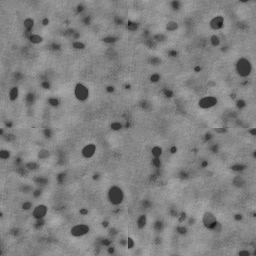
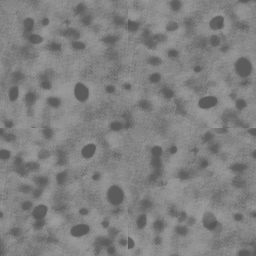
Her skin: no speckle over her breasts; her paint no longer smeared at the close-up
- The speckle over her breasts (the owner's note): 93f66173 laid the face-grain tile
  at 3x over her whole body, its darkest texels darkening her skin by about a quarter
  every 2.8 cm, and the graft's freckles reached her upper chest. The grain is now
  only up her neck (the freckle maps' blue, carried past the UV islands so no seam),
  its outliers eased (heroine_grain.py); no freckles on the front of her chest from
  her collarbones down (heroine_freckles.py). Her face's freckles are unchanged. Her
  bust at the Look: 0.26 specks per 1000 px to 0.06, the floor
  (docs/team/face_sheets/v12_breast_speckle.jpg, before and after at 1:1).
- Her skin's scattering 0.38 to 0.1 (People.HerScatter, hers only): Godot's
  screen-space SSS spreads the lit colour with her paint in it, and at the Look it
  smeared brows, freckles and pores. Grain at the Look 0.62 / 0.79 / 0.91 of her
  portrait's to 0.74 / 0.92 / 0.99.
- Mipmaps on the textures loaded from code (the presets' head paints, freckles,
  grain, AO, scalp shadows): detect-3D never saw them.
- Dev switches for pictures: --zoom (the Look's framing), --lids, --tonemap, --grade off.

No mesh, vertex-colour or tuck change: no refit.

diff --git a/tools/assets/heroine_freckles.py b/tools/assets/heroine_freckles.py
@@ -9,13 +9,15 @@ paint is finer or coarser: a redhead's, as her portrait has them (her_23),
 densest in a band over her nose and across her cheeks, lighter on her
 forehead, chin and ears, a few on her neck, and a sun-dusting over her
 shoulders and upper chest, thinning to none before her body's own paint
-begins. Each is soft-edged and uneven (two overlapping spots), 0.6 to 3 mm
+begins, and none over her breasts. Each is soft-edged and uneven (two overlapping spots), 0.6 to 3 mm
 across, of its own depth, and has a rank: at an amount a, those ranked under
 a show, so a light dusting is the same freckles as a heavy one, fewer.
 
 Written to <out>: heroine_freckles.png (her head's UVs, 2048) and
 heroine_freckles_graft.png (the graft's: her neck, shoulders and upper chest,
-1024): red each texel's freckle (its depth, soft at its edge), green its rank.
+1024): red each texel's freckle (its depth, soft at its edge), green its rank,
+blue how much of her face's grain her skin takes there (all of her head and
+neck, none from her collarbones down).
 Run again when her head is rebuilt (heroine_head.py).
 """
 import os
@@ -164,7 +166,9 @@ nC = FN[tri][cKDTree(P).query(C)[1]] if len(C) else np.zeros((0, 3))
 spots = freckles(C, nC)
 print("FRECKLES face: %d (in her band over nose and cheeks %d)" % (len(C), int((np.exp(-(((C - mid)[:, 0] / 0.052) ** 2)
       - ((((C - mid)[:, 2] + 0.024) / 0.02) ** 2)) > 0.5).sum())))
-save(draw(P, spots, SIZE, rows, cols), os.path.join(OUT, "heroine_freckles.png"))
+img = draw(P, spots, SIZE, rows, cols)
+img[..., 2] = 1                       # (blue: her face's grain on all of her head, her face aside: the skin shader's)
+save(img, os.path.join(OUT, "heroine_freckles.png"))
 
 # ---------------------------------------------- her neck, shoulders, chest --
 her = bpy.data.objects["Heroine"]
@@ -180,9 +184,33 @@ fade = smooth((off - 0.01) / 0.03)
 # sun on her shoulders' tops and her upper chest and back, a few on her neck
 sun = smooth((N[:, 2] + 0.1) / 0.6) * 0.6 + smooth((-N[:, 1] - 0.2) / 0.5) * 0.4
 neck = P[:, 2] > mid[2] - 0.17
-dens = np.where(neck, 0.05e5, 0.4e5 * sun) * fade
+# None over her breasts: a sun-dusting thins down her chest, and breasts, clothed most days, are pale; laid over
+# them, the freckles read as a speckle (the owner, 6 October: "we want smooth skin aside from pores / freckles",
+# "the breasts must look magnificent"). In front, none from her collarbones down (13 to 18 cm over her nipples'
+# height, from her body's foremost points: on her upper chest, at the Look's close-up, they too read as specks over
+# her breasts); her shoulders, back and neck keep theirs.
+BV = np.array([v.co[:] for v in her.data.vertices]) @ np.array(her.matrix_world)[:3, :3].T + np.array(her.matrix_world)[:3, 3]
+nips = []
+for sd in (1, -1):
+    m = (BV[:, 0] * sd > 0.04) & (BV[:, 0] * sd < 0.16) & (BV[:, 2] > 1.34) & (BV[:, 2] < 1.50)
+    nips.append(BV[m][np.argmin(BV[m][:, 1])])
+nip_z = float(np.mean([q[2] for q in nips]))
+front = smooth((-P[:, 1] - 0.02) / 0.04) * (1 - smooth((np.abs(P[:, 0]) - 0.17) / 0.04))
+breasts = front * (1 - smooth((P[:, 2] - (nip_z + 0.13)) / 0.05))
+dens = np.where(neck, 0.05e5, 0.4e5 * sun) * fade * (1 - breasts)
 C = sow(P, tri, area, dens)
 nC = GFN[tri][cKDTree(P).query(C)[1]] if len(C) else np.zeros((0, 3))
 spots = freckles(C, nC)
-print("FRECKLES shoulders and chest: %d" % len(C))
-save(draw(P, spots, GSIZE, rows, cols), os.path.join(OUT, "heroine_freckles_graft.png"))
+print("FRECKLES shoulders and chest: %d (none over her breasts: nipples at %.3f m)" % (len(C), nip_z))
+img = draw(P, spots, GSIZE, rows, cols)
+# Blue: how much of her face's grain (heroine_grain.png, the skin shader's grain_amount) her skin takes here: all of
+# it up her neck, to her face's paint, none from her collarbones down. (Laid over her whole body it was the speckle
+# over her breasts: her neck's grain is her face's, her body is smooth but for its pores and freckles.)
+img[rows, cols, 2] = smooth((P[:, 2] - 1.47) / 0.08)
+# (carried past the islands' edges, so a mipmap never draws a seam of less grain along them)
+from scipy import ndimage  # noqa: E402
+known = np.zeros(img.shape[:2], bool)
+known[rows, cols] = True
+_, (iy, ix) = ndimage.distance_transform_edt(~known, return_indices=True)
+img[..., 2] = img[..., 2][iy, ix]
+save(img, os.path.join(OUT, "heroine_freckles_graft.png"))

diff --git a/godot/src/Actors/People.cs b/godot/src/Actors/People.cs
@@ -915,12 +915,7 @@ public static class People
         if (who == "heroine")
         {
             m.SetShaderParameter("face_tone", FaceTone(look));
-            // (her face's own fine grain on her neck and body: tools/assets/heroine_grain.py)
-            if (ResourceLoader.Exists("res://art/people/head_tex/heroine_grain.png"))
-            {
-                m.SetShaderParameter("grain", GD.Load<Texture2D>("res://art/people/head_tex/heroine_grain.png"));
-                m.SetShaderParameter("grain_amount", HerGrain);
-            }
+            m.SetShaderParameter("scatter", HerScatter);
         }
         // A body's relief baked from its sculpt (the hero's), under the pores.
         if (src.NormalTexture != null)
@@ -960,6 +955,13 @@ public static class People
         {
             m.SetShaderParameter("freckles", GD.Load<Texture2D>(fp));
             m.SetShaderParameter("freckle_amount", HerFreckles(look));
+            // (and her face's own fine grain up her neck, where the freckles' map's blue says: none from her
+            // collarbones down; tools/assets/heroine_grain.py)
+            if (ResourceLoader.Exists("res://art/people/head_tex/heroine_grain.png"))
+            {
+                m.SetShaderParameter("grain", GD.Load<Texture2D>("res://art/people/head_tex/heroine_grain.png"));
+                m.SetShaderParameter("grain_amount", HerGrain);
+            }
         }
         // His skin, all of it, rougher than hers: at her sheen his deep
         // relief caught the light as wet plastic.
@@ -971,6 +973,14 @@ public static class People
         }
         return m;
     }
+
+    /// <summary>How far light carried under her skin spreads on screen (the skin shader's `scatter`, Godot's
+    /// screen-space scattering). Godot spreads the lit colour with her paint in it, so at the Look's close-up its
+    /// 0.38 smeared her paint: brows paler than drawn (Doe's darkest third at 0.30 of her skin, her portrait's 0.18),
+    /// freckles and pores gone, her grain at 0.62 / 0.79 / 0.91 of her portrait's (s0.8 / 1.6 / 3.2). At 0.1 it is
+    /// 0.74 / 0.92 / 0.99 and Doe's brows 0.20; the soft edge of her lit side is the shader's own (`terminator`).
+    /// (0.2 smeared as 0.38 did.)</summary>
+    const float HerScatter = 0.1f;
 
     /// <summary>His skin's roughness, sheen, and the roughness it gains seen
     /// edge on (shaders/heroine_skin.gdshader).</summary>
@@ -1009,9 +1019,10 @@ public static class People
         ["wildling"] = new(0.992f, 0.969f, 0.957f), ["hardwon"] = new(1.004f, 1.016f, 1.032f),
     };
 
-    /// <summary>How much of her face's own grain her neck and body take (the skin shader's
-    /// grain_amount; 1 her face's paint's own spread): her portrait's neck has nearly half her
-    /// face's grain, and her neck's relief alone gave it a quarter. (--grain tries another.)</summary>
+    /// <summary>How much of her face's own grain her neck takes (the skin shader's grain_amount; 1 her face's
+    /// paint's own spread; none from her collarbones down, by her freckles' map's blue): her portrait's neck has
+    /// nearly half her face's grain, and her neck's relief alone gave it a quarter. (Over her body too, it was the
+    /// speckle over her breasts.) (--grain tries another.)</summary>
     static readonly float HerGrain = SurvivorUnchained.Args.Has("grain") ? SurvivorUnchained.Args.Num("grain", 3f) : 3f;
 
     static Vector3 FaceTone(Look look) =>

diff --git a/tools/assets/heroine_grain.py b/tools/assets/heroine_grain.py
@@ -48,9 +48,17 @@ for y in range(0, S - T, 32):
             best, at = score, (y, x)
 y, x = at
 g = ratio[y:y + T, x:x + T] - 1
-# (freckles and blemishes, the few marks far past the grain's spread, clipped back into it)
+# (freckles, blemishes and pores' dark cores, the marks past the grain's spread, eased back into it: clipped at
+# 2.5 times the spread, the tile's darkest texels, three times over on her neck, read as dark specks)
 s = g.std()
-g = np.clip(g, -2.5 * s, 2.5 * s)
+K = 1.6 * s
+
+
+def soft(x):
+    return K * np.tanh(x / K)
+
+
+g = soft(g)
 g -= g.mean()
 # Seamless: the tile over itself shifted half its size, each where it is furthest from its own
 # edge, the spread kept where they blend.
@@ -58,7 +66,7 @@ h = np.roll(np.roll(g, T // 2, 0), T // 2, 1)
 e = np.minimum(np.arange(T), T - 1 - np.arange(T)) / (T / 2)
 w = np.minimum(e[:, None], e[None, :])
 w = np.clip(w * 2, 0, 1)
-t = (w * g + (1 - w) * h) / np.sqrt(w * w + (1 - w) * (1 - w))
+t = soft((w * g + (1 - w) * h) / np.sqrt(w * w + (1 - w) * (1 - w)))
 img = np.clip(0.5 + t / STEP * 0.25, 0, 1)
 Image.fromarray((img * 255 + 0.5).astype(np.uint8), 'L').save(OUT)
 print('GRAIN from her face paint at', at, 'spread %.4f (%.1f%%), written' % (s, 100 * s), OUT)

diff --git a/godot/src/Shots.cs b/godot/src/Shots.cs
@@ -105,6 +105,16 @@ public partial class Shots : Node
         // frame: the graphics settings are applied after this wakes).
         if (Args.Has("no-taa")) GetViewport().UseTaa = false;
         if (Args.Get("mipbias") is string mb) GetViewport().TextureMipmapBias = float.Parse(mb, System.Globalization.CultureInfo.InvariantCulture);
+        // --tonemap linear|reinhardt|filmic|aces|agx, --grade off: the picture through
+        // another tone curve, or without the colour grade, to tell what each does to a
+        // face's darks (her brows, lashes, the line of her lips).
+        if (Args.Get("tonemap") is string tm || Args.Get("grade") == "off")
+            foreach (var we in GetTree().Root.FindChildren("*", "WorldEnvironment", true, false))
+                if (((WorldEnvironment)we).Environment is { } env)
+                {
+                    if (Args.Get("tonemap") is string t && System.Enum.TryParse<Godot.Environment.ToneMapper>(t, true, out var mode)) env.TonemapMode = mode;
+                    if (Args.Get("grade") == "off") env.AdjustmentEnabled = false;
+                }
         for (int i = wanted.Count - 1; i >= 0; i--)
         {
             if (time < wanted[i].At) continue;

diff --git a/godot/src/Game/GameFront.cs b/godot/src/Game/GameFront.cs
@@ -312,6 +312,9 @@ public partial class Game
         // --turn DEGREES: the figure turned so far on the turntable (pictures of her from the side).
         if (Args.Get("turn") is string tn && double.TryParse(tn, System.Globalization.NumberStyles.Float, System.Globalization.CultureInfo.InvariantCulture, out var deg))
             Turntable(Mathf.DegToRad((float)deg), 0);
+        // --zoom Z: framed so near (0 all of her, 0.55 head and shoulders, 1 her face), in the portrait's light from
+        // head and shoulders in (pictures of her skin at the bust).
+        if (Args.Has("zoom")) figZoom = Mathf.Clamp(Args.Num("zoom", figZoom), 0, 1);
     }
 
     public void CancelCreation()

diff --git a/godot/src/Actors/HerFaceLife.cs b/godot/src/Actors/HerFaceLife.cs
@@ -53,6 +53,8 @@ public partial class HerFaceLife : Node
         // --open-eyes: a still of her face with her lids up and her eyes ahead
         // (a blink caught in a still read as a face with its eyes shut).
         if (Args.Has("open-eyes")) { Lids = 0; Wander = 0; }
+        // --lids X: her lids held so far down (0 open, 1 shut), for pictures of a lid at rest tried.
+        if (Args.Has("lids")) Lids = Args.Num("lids", 0);
         // --eyecycle paint,#rrggbb,...: her irises dyed each in turn, one a picture
         // (--seconds, then every --every): the eye shader's colours measured as
         // the game shows them, against the portraits' (paint: as painted).

diff --git a/docs/team/face.md b/docs/team/face.md
@@ -1,33 +1,32 @@
 # Heroine face, hair and creation's Look: status
 
-Agent a43570e07edbe40b2 (handing off at v11), branch `worktree-agent-a43570e07edbe40b2`.
-The handoff for v12 is `docs/handoff/face.md`.
+Agent aed215ba3ca60cc29 (v12; took over from a43570e07edbe40b2 at v11), branch `worktree-agent-aed215ba3ca60cc29`.
+The handoff it started from is `docs/handoff/face.md`.
 
 ## Current state (2026-10-06)
-- **v11** (this branch, through 93f66173; no geometry or blend paint changed, **no refit needed**). Merged with the integration branch's v10b refit (19dca97e); creation's portraits rerun on it (a3369938).
-- Against the bar (`face_sheets/v11_face.jpg`, `v11_presets.jpg`, `v11_play_zoom.png`):
-  - **Tones** under the white rig: every face within 3.3% per channel of its portrait (`tone_fit.py v11e`).
-  - **Irises**: every face within 5% per channel of its portrait (were a third to a fiftieth as light; `iris_fit.py`).
-  - **Grain** at the Look: face s0.8 / s1.6 / s3.2 = 0.65 / 0.82 / 0.89 of the photo's. Not 0.9 yet (the finest is TAA's).
-  - **Neck grain**: neck over face 0.36 / 0.29 / 0.25 at the Look (was 0.26 / 0.22 / 0.23; the portrait's 0.46 / 0.45 / 0.39).
-  - **Brows** (hers): dark third over skin L 0.74, hair 0.27 (portrait 0.76, 0.28; were 0.35, 0.41).
-  - **Play zoom**: eyes and a mouth read at the game's camera, day, night and arena (were a blank); brows read at 12.5 m, merged with the eyes at 23 m.
-  - **Book by day**: her lamp at half while the book frames her; still flat (the sun is frontal).
-- **Tells left at the close-up**: skin a touch smooth and even; lips thinner and paler than her portrait's; the hair (a helmet, a pale strip at the temples; the hair pass); the other faces' brows 1.3 to 1.8 times too light against their portraits.
+- **v12, her skin (committed):**
+  - **No speckle over her breasts** (the owner's note, 6 October). The face-grain tile (93f66173) was laid at 3x over her whole body; it is now only up her neck (the freckle maps' blue), its dark outliers eased; the graft's freckles stop at her collarbones in front. Her bust at the Look: 0.26 specks per 1000 px to 0.06, the floor (`face_sheets/v12_breast_speckle.jpg`).
+  - **Her paint no longer smeared at the close-up:** her skin's scattering 0.38 to 0.1. Godot's screen-space SSS spreads the lit colour with her paint in it. Grain at the Look (s0.8 / 1.6 / 3.2 of her portrait's) 0.62 / 0.79 / 0.91 to 0.74 / 0.92 / 0.99; Doe's brows' darkness 0.30 to 0.20 (portrait 0.18).
+  - Mipmaps on the textures loaded from code (the presets' head paints, freckles, grain, AO, scalp).
+- **Short of the bar, found this round (worst first):**
+  1. **Every face's brows sit 22 to 37% too near its eyes** (in eye widths): the warp squashed each portrait's eye region onto the clay's narrower eyes. Fix written in `heroine_face.py` (brows pinned to the portrait's place over each eye; the laying's colour match made a linear tint; the front's features laid from it alone: brows +20% darker). Needs all ten paints re-laid (Krea detail pass) and laid onto the head paints without a rebuild.
+  2. **The eyes stare and read as a render:** the iris fully uncovered (a resting lid per face: Highborn about 0.18), irises 4 to 8% small and too contrasty, the lashes MakeHuman's black spiky band (and a faded rectangle in their paint).
+  3. **Upper lips 13 to 37% thinner than the portraits'** on most faces, in the sculpt itself (the clays). Sliders don't fill (lips_upper pouts). A sculpt per face: **a refit**, gathered with anything else of the head's.
+  4. AgX (the world's tone curve) pales her lips and lifts her darks unshaded; under the white rig her lips are close. Secondary.
+  5. Her neck's grain is half her portrait's neck's (0.0049 at s0.8 against 0.0094); the tile is clean now, so it can rise without speckle. The book by day; the jaw-edge spots.
 
 ## Key decisions (why)
-- **Eye swatches are the iris's own colour** (`iris_light` 1): the sky's cornea reflection that lit them at 0.3 was dimmed in v10. Fey, Vixen, Doe and Moonlit have swatches of their own (Dove, Lichen, Chestnut, Umber): shared, two faces were 20 to 50% apart.
-- **Each face's paint has its own tone** (`face_tone`, laid by the features' blue on the face alone), the swatch fit for the body.
-- **Only her own face's brows are dyed** to her hair: her brow mask on another face dyed its lid crease. Each hair keeps its painted darkness, in the dye's hue.
-- **Play zoom**: the features' marks read at a capped mip and grown to the pixel; her head carried 8 degrees up in play (`HerCarriage.HeadLevel`; play only, the animation lead to sign off).
-- **Her neck's grain is her face paint's own** (`heroine_grain.py`, a tile): the pores' tile read as sandpaper.
-- **Freckles**: lower defaults (hers 0.18, Hard-won 0.12, Wildling 0.1, Fey 0.06), softer at low amounts; a face shaped by hand starts with none.
+- **Scatter 0.1, hers only** (`People.HerScatter`): 0.2 smears as 0.38 does; at 0.1 the detail stays and the light's edge is still soft (the shader's own terminator). The hero shares the shader; his lead may want the same.
+- **Grain up her neck only, by the freckle maps' blue** (`heroine_freckles.py`): no new texture, no mesh change, no seam (the blue carried past the UV islands).
+- **No freckles on the front of her chest:** sun freckles thin down the chest; over her breasts they read as specks.
+- **Brow position by the paint, not the brows_height slider:** at 1.0 the slider moves the gap 0.52 to 0.60 (portrait 0.77) and looks surprised.
+- Dev switches for pictures: `--zoom Z` (the Look's framing), `--lids X`, `--tonemap linear|agx|...`, `--grade off`.
 
 ## Next
-See the handoff: the other faces' brows, the face's finest grain, the lips, the book's light, the chest flake (not found at the Look on the refit), then the paints and sliders pass.
+Re-lay the ten paints (brows) and lay them on the head paints; the eyes (resting lids, irises, lashes); the lips' sculpt (refit); then the handoff's list; then the paints and sliders pass (freckle control); then hair.
 
 ## Notes for other areas
-- **Male hero:** the eye shader's `iris_light` is 1 now; his flint is refitted (`People.HisEyes`). His irises were as dark as hers.
-- **Animation:** `HerCarriage.HeadLevel` lifts her head 8 degrees above level in play (`--head-level`, `--head-ease`). Please judge it in motion.
-- **Arena art / experience:** at the Verge's arrival the canopy hides her entirely from play's camera.
-- **Shots:** `--book-lamp`, `--grain`, `--brows soften,sat`, `--head-level`, `--head-ease` try values.
+- **Outfits:** her body takes no grain tile now (smooth below her collarbones, around and under garments too); her skin is sharper (scatter 0.1). No mesh or vertex-colour change.
+- **Male hero:** the same shader's scatter 0.38 smears his paint at close-ups too.
+- **Rendering:** her face's grain numbers are cleanest with `--skinparam scatter=0.1` (now her default).
+- **Shots:** an ember from the camp fire can drift in front of her at the Look (a soft orange disc); it's not her skin.
